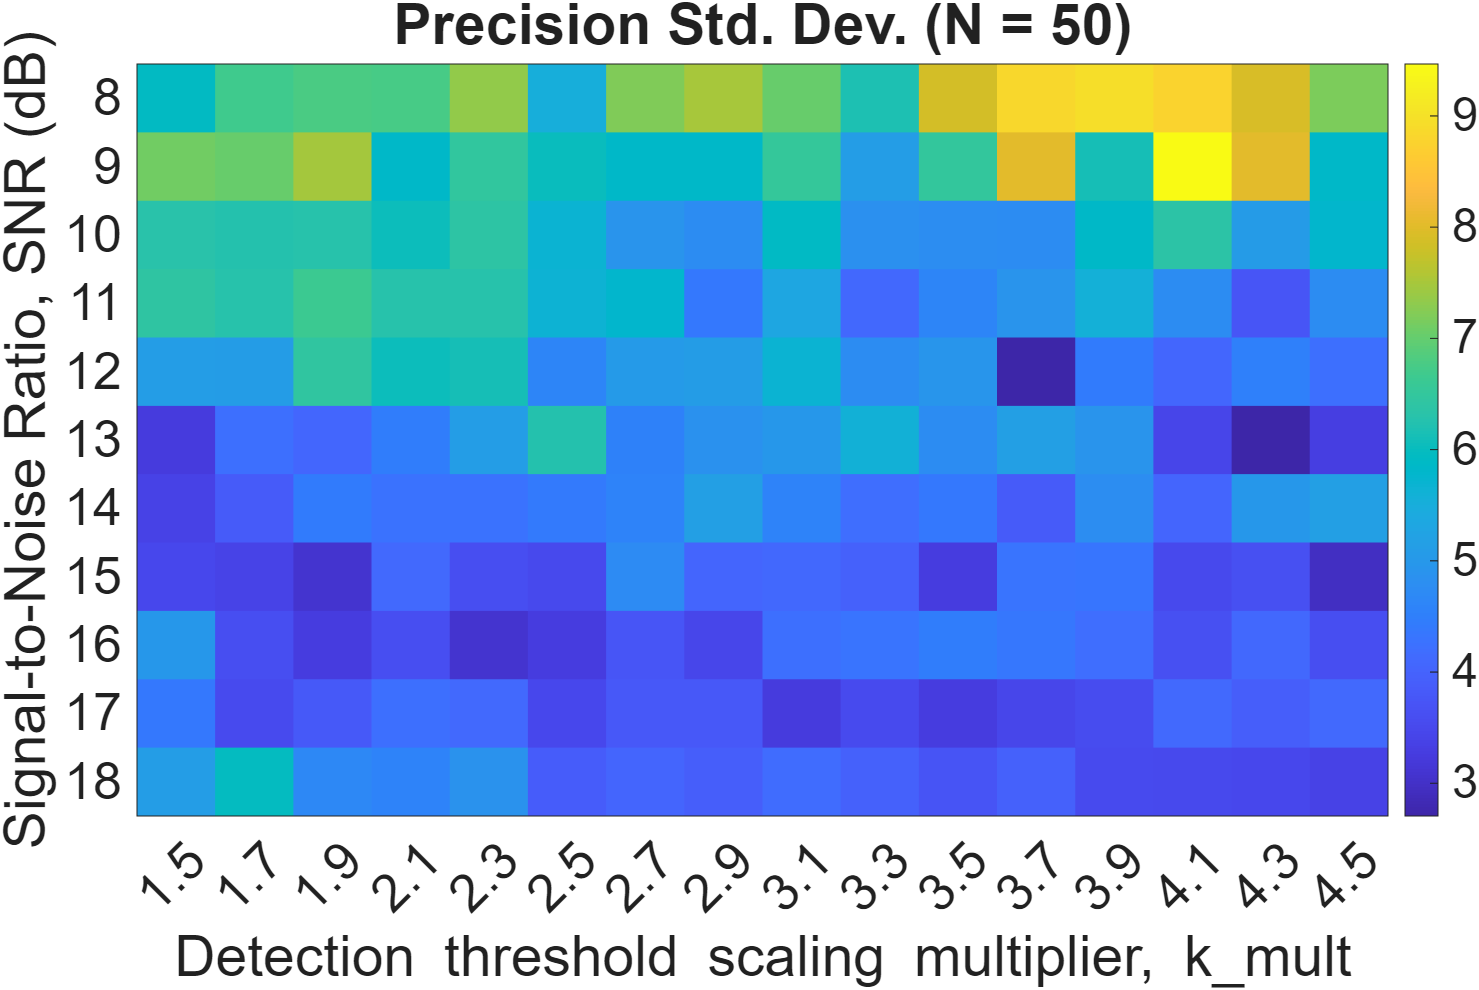
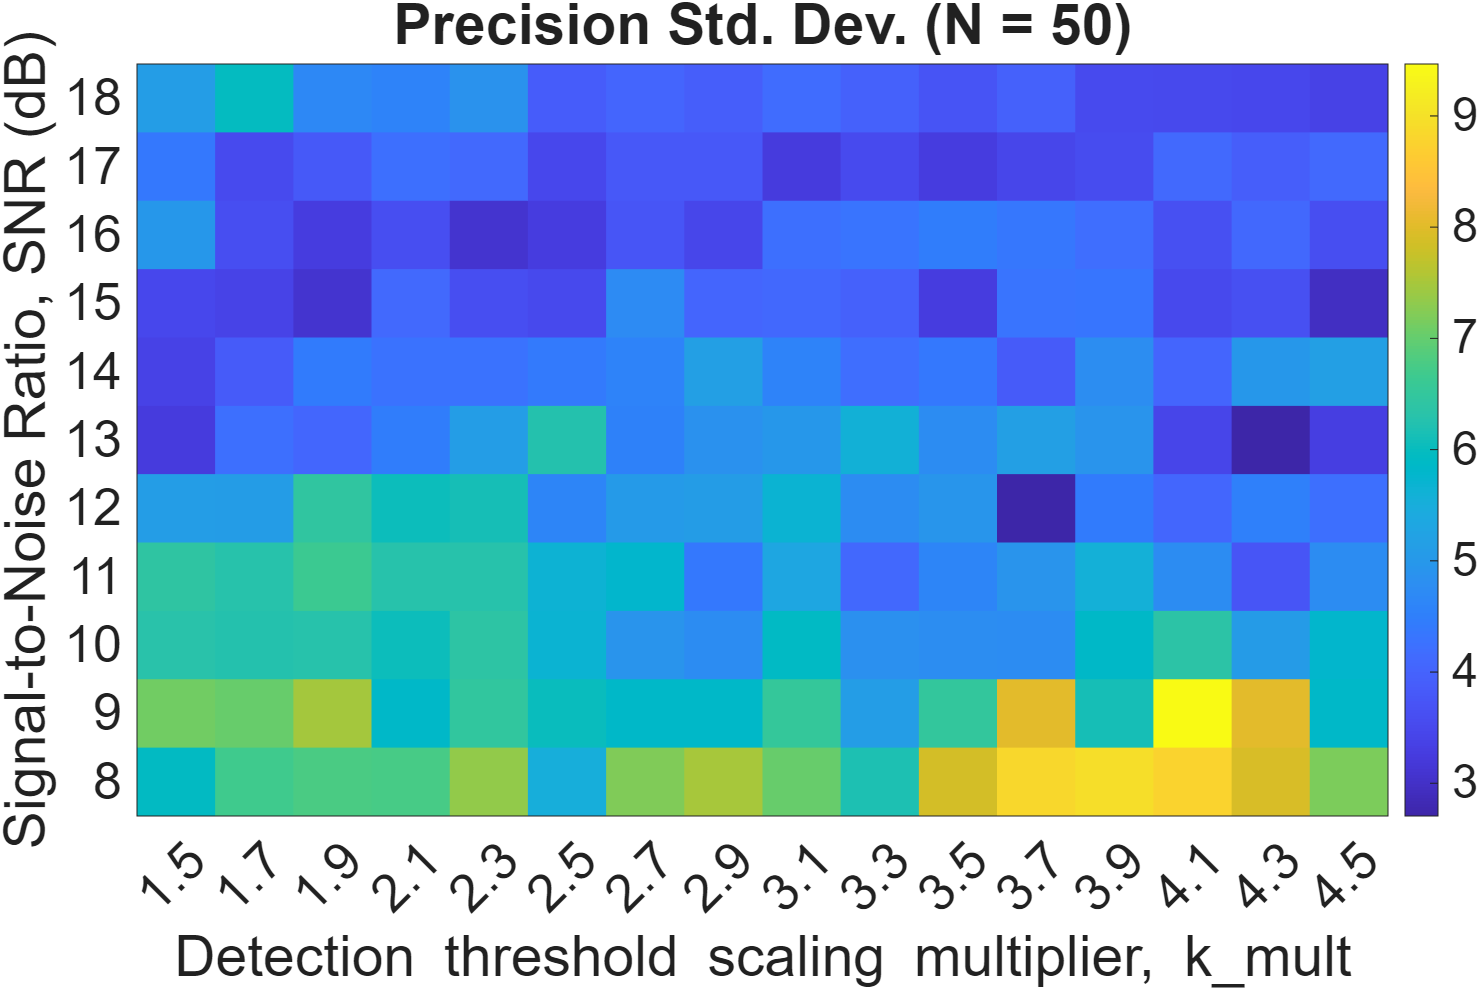
novas imagens

diff --git a/images.m b/images.m
@@ -17,10 +17,10 @@ ax = gca;
 set(ax, 'FontSize', 20, 'LineWidth', 0.8);
 xlabel('Distance (m)', 'FontSize', 20); 
 ylabel('Frequency Shift (MHz)', 'FontSize', 20);
-title('Distributed Frequency Shift Trace Along Sensing Fiber', ...
-    'FontSize', 22, 'FontWeight', 'bold');
+%title('Distributed Frequency Shift Trace Along Sensing Fiber', ...
+    %'FontSize', 22, 'FontWeight', 'bold');
 
-xlim([0 245]);
+xlim([207 237]);
 ylim([-1100 1100]);
 grid on;
 
@@ -80,10 +80,10 @@ for n = 1:length(locs_neg)
 end
 hold off;
 set(gca, 'FontSize', 20, 'LineWidth', 1.2, 'Box', 'on', 'TickDir', 'in');
-xlabel('Distance (m)', 'FontSize', 20, 'FontWeight', 'bold'); 
-ylabel('Frequency Shift (MHz)', 'FontSize', 20, 'FontWeight', 'bold');
-title('Distributed Spectral Shift Event Identification via Threshold Detection', ...
-    'FontSize', 22, 'FontWeight', 'bold');
+xlabel('Distance (m)', 'FontSize', 20); 
+ylabel('Frequency Shift (MHz)', 'FontSize', 20);
+% title('Distributed Spectral Shift Event Identification via Threshold Detection', ...
+%     'FontSize', 22, 'FontWeight', 'bold');
 legend('Location', 'southeast', 'FontSize', 15); 
 grid on; 
 xlim([207 240]); 
@@ -111,8 +111,8 @@ for k = 1:size(views, 1)
     xlabel('Distance (m)', 'FontSize', 25);
     ylabel('Frequency Lag (MHz)', 'FontSize', 25);
     zlabel('Correlation', 'FontSize', 25);
-    title(sprintf('Cross-Correlation Surface Map — %s', views{k,2}), ...
-        'FontSize', 30, 'FontWeight', 'bold');
+    % title(sprintf('Cross-Correlation Surface Map — %s', views{k,2}), ...
+        % 'FontSize', 30, 'FontWeight', 'bold');
     xlim([0 240]);
     ylim([-1100 1100]);
     zlim([-0.5 1]);
@@ -210,6 +210,21 @@ SNR_dB = conf.SNR_dB;
 z = conf.z;
 z_valid = z(1 : (Nz - M + 1));
 
+% 1. Criar o vetor nulo para o Ground Truth contínuo
+true_freq_shift_full = zeros(1, Nz);
+
+% 2. Preencher com os desvios teóricos exatos de cada evento (em Hz)
+for i = 1:conf.num_events
+    start_idx = max(1, round(gt.theor_starts(i) / conf.dz));
+    end_idx   = min(conf.Nz, round(gt.theor_ends(i) / conf.dz));
+    true_freq_shift_full(start_idx:end_idx) = gt.theor_shifts(i) * 1e6; % Converte MHz para Hz
+end
+
+% 3. Truncar para alinhar com a dimensão de z_valid (Nz - M + 1)
+true_freq_shift = true_freq_shift_full(1 : (conf.Nz - conf.M + 1));
+
+
+
 % =========================================================================
 % FIGURE 8: SMOOTHING WINDOW COMPARISON
 % =========================================================================
@@ -219,27 +234,31 @@ smooth_small = movmean(freq_shift, max(1, round(M/2)));
 smooth_large = movmean(freq_shift, 2*M);
 fig8 = figure(8);
 set(fig8, 'Name', 'Smoothing Window Trade-off Analysis');
+z_gt = z_valid - (conf.M * conf.dz) / 2;
+
 plot(z_valid, freq_shift / 1e6, '-', ...
-    'LineWidth', 1.0, 'DisplayName', 'Raw Trace', 'Color', [0.7 0.7 0.7]);
-hold on;
+    'LineWidth', 2.5, 'DisplayName', 'Raw Trace', 'Color', [0.7 0.7 0.7]);
+hold on
+plot(z_gt, true_freq_shift / 1e6, 'k--', ...
+    'LineWidth', 2.5, 'DisplayName', 'Ground Truth');
 plot(z_valid, smooth_small / 1e6, '--', ...
-    'LineWidth', 1.4, 'DisplayName', sprintf('Under-smoothed (W = %d)', max(1, round(M/2))), ...
+    'LineWidth', 2.5, 'DisplayName', sprintf('Under-smoothed (W = %d)', max(1, round(M/2))), ...
     'Color', [0.85 0.32 0.09]); % Orange
-plot(z_valid, smooth_freq_shift / 1e6, '-', ...
-    'LineWidth', 2.0, 'DisplayName', sprintf('Optimal (W = %d)', smooth_window), ...
+plot(z_valid, smooth_freq_shift / 1e6, '-.', ...
+    'LineWidth',2.5, 'DisplayName', sprintf('Optimal (W = %d)', smooth_window), ...
     'Color', [0.00 0.45 0.74]); % Primary Blue
-plot(z_valid, smooth_large / 1e6, '-.', ...
-    'LineWidth', 1.6, 'DisplayName', sprintf('Over-smoothed (W = %d)', 2*M), ...
+plot(z_valid, smooth_large / 1e6, '-', ...
+    'LineWidth', 2.5, 'DisplayName', sprintf('Over-smoothed (W = %d)', 2*M), ...
     'Color', [0.47 0.67 0.19]); % Green
 hold off;
 grid on;
-set(gca, 'FontSize', 15, 'LineWidth', 1.3);
-xlabel('Distance (m)', 'FontSize', 16);
-ylabel('Frequency Shift (MHz)', 'FontSize', 16);
-title('Trade-off of Moving-Average Window Size on Spectral Shift Profile', ...
-    'FontSize', 17, 'FontWeight', 'bold');
-legend('Location', 'northeast', 'FontSize', 13);
-xlim([205, 240]);
+set(gca, 'FontSize', 20, 'LineWidth', 1.3);
+xlabel('Distance (m)', 'FontSize', 20);
+ylabel('Frequency Shift (MHz)', 'FontSize', 20);
+%title('Trade-off of Moving-Average Window Size on Spectral Shift Profile', ...
+    %'FontSize', 17, 'FontWeight', 'bold');
+legend('Location', 'southeast', 'FontSize', 16);
+xlim([210, 226]);
 
 %% HEATMAPS -- LOAD SECOND .MAT FILE
 clear; clc; close all;
@@ -263,6 +282,7 @@ h1.FontSize = 25;
 h1.ColorLimits = [0 100];
 h1.CellLabelColor = 'none';
 h1.GridVisible = 'off';
+h1.YDisplayData = flip(h1.YDisplayData); % Inverte a ordem do Eixo Y
 
 %%
 fig9 = figure(9); set(gcf, 'Name', 'Mean Sensitivity Heatmap', 'WindowState', 'maximized');
@@ -285,6 +305,7 @@ h3.FontSize = 25;
 h3.ColorLimits = [0 100];
 h3.CellLabelColor = 'none';
 h3.GridVisible = 'off';
+h3.YDisplayData = flip(h3.YDisplayData); % Inverte a ordem do Eixo Y
 
 %%
 fig11 = figure(11); set(gcf, 'Name', 'Precision Std Dev Heatmap', 'WindowState', 'maximized');
@@ -296,6 +317,7 @@ h4.Colormap = parula;
 h4.FontSize = 25;
 h4.CellLabelColor = 'none';
 h4.GridVisible = 'off';
+h4.YDisplayData = flip(h4.YDisplayData); % Inverte a ordem do Eixo Y
 
 %%
 fig12 = figure(12); set(gcf, 'Name', 'Sensitivity Std Dev Heatmap', 'WindowState', 'maximized');
@@ -316,3 +338,38 @@ h6.Colormap = parula;
 h6.FontSize = 25;
 h6.CellLabelColor = 'none';
 h6.GridVisible = 'off';
+h6.YDisplayData = flip(h6.YDisplayData); % Inverte a ordem do Eixo Y
+
+%%
+
+%%
+addpath('functions\');
+addpath('sections\')
+
+% 1. Carregar configurações e perfil da fibra
+conf = get_configuration();
+[r, n] = rayleigh_profile(conf);
+
+% Para esta figura, não precisamos de perturbação
+n_pert = n; 
+
+% 2. Executar a simulação de retroespalhamento
+shape_choice = 3; % Impulso retangular ideal
+[z_valid, ~, ~, ~, ~, ~, E_ref_raw_all, ~] = ...
+    backscatter_simulation(conf, shape_choice, r, n, n_pert);
+
+% 3. Extrair a intensidade |E(z)|^2 para uma única frequência ótica (ex: frequência central)
+f_idx = round(conf.Nf / 2); % Índice da frequência central
+E_z = E_ref_raw_all(f_idx, :); % Campo elétrico ao longo de z
+intensity = abs(E_z).^2; % Intensidade |E(z)|^2
+
+% 4. Gerar o gráfico do Traço de Rayleigh
+fig50 = figure(50);
+set(fig50, 'Name', 'Rayleigh Backscatter Trace');
+set(gca, 'FontSize', 20, 'LineWidth', 1.3);
+plot(z_valid, intensity, 'LineWidth', 1.2, 'Color', [0.0 0.45 0.74]);
+grid on;
+xlabel('Position along fiber z (m)', 'FontSize', 20);
+ylabel('Optical Intensity |E(z)|^2 (a.u.)', 'FontSize', 20);
+%title('Rayleigh Backscatter Trace along Fiber', 'FontSize', 22, 'FontWeight', 'bold');
+xlim([0 conf.L]);

diff --git a/pulse_shapping.m b/pulse_shapping.m
@@ -1,4 +1,6 @@
 clc, clear, close
+
+%%
 addpath('sections\')
 addpath('functions\')
 % 1. SYSTEM CONFIGURATION & WAVEGUIDE PROPERTIES
@@ -28,48 +30,48 @@ v_rect    = [ 0, 0, 1,               1,               0,  0];
 plot(t_rect_ns, v_rect, 'r--', 'LineWidth', 2, 'DisplayName', 'Ideal Rectangular Pulse');
 
 
-% 2. RC Filter Model (fc = 100 MHz)
-fc = [50e6, 100e6, 200e6]; 
-for fc_comp = fc
-    RC_comp = 1 / (2 * pi * fc_comp);
-    t_rc = linspace(0, 2 * pulse_width, 2 * M);
-    window_rc_full = zeros(1, 2 * M);
-    for k = 1:2*M
-        tk = t_rc(k);
-        if tk <= pulse_width
-            window_rc_full(k) = 1 - exp(-tk / RC_comp);
-        else
-
-            window_rc_full(k) = (1 - exp(-pulse_width / RC_comp)) * exp(-(tk - pulse_width) / RC_comp);
-        end
-    end
-    window_rc = window_rc_full / max(window_rc_full);
-    plot(t_rc * 1e9, window_rc, 'LineWidth', 1.8, ...
-        'DisplayName', sprintf('Filtro RC (f_c = %d MHz)', fc_comp/1e6));
-end
+% % 2. RC Filter Model (fc = 100 MHz)
+% fc = [50e6, 100e6, 200e6]; 
+% for fc_comp = fc
+%     RC_comp = 1 / (2 * pi * fc_comp);
+%     t_rc = linspace(0, 2 * pulse_width, 2 * M);
+%     window_rc_full = zeros(1, 2 * M);
+%     for k = 1:2*M
+%         tk = t_rc(k);
+%         if tk <= pulse_width
+%             window_rc_full(k) = 1 - exp(-tk / RC_comp);
+%         else
+% 
+%             window_rc_full(k) = (1 - exp(-pulse_width / RC_comp)) * exp(-(tk - pulse_width) / RC_comp);
+%         end
+%     end
+%     window_rc = window_rc_full / max(window_rc_full);
+%     plot(t_rc * 1e9, window_rc, 'LineWidth', 2, ...
+%         'DisplayName', sprintf('Filtro RC (f_c = %d MHz)', fc_comp/1e6));
+% end
 
 
 % 3. Super-Gaussian (Order N)
-% pulse_width_ns = pulse_width * 1e9; % 10 ns
-% t_sg_ns = linspace(-pulse_width_ns, 2*pulse_width_ns, 2*M); % -10 a 20 ns
-% t_center_ns = pulse_width_ns / 2; % 5 ns
-% 
-% order_N = [1, 3, 5];
-% 
-% for N = order_N
-%     window_sg = sgauss(t_sg_ns - t_center_ns, pulse_width_ns, 1, 0, N);
-%     window_sg = window_sg / max(window_sg);
-%     plot(t_sg_ns, window_sg, 'LineWidth', 1.5, 'DisplayName', ['Super-Gaussian (p=' num2str(N) ')']);
-% end
+pulse_width_ns = pulse_width * 1e9; % 10 ns
+t_sg_ns = linspace(-pulse_width_ns, 2*pulse_width_ns, 2*M); % -10 a 20 ns
+t_center_ns = pulse_width_ns / 2; % 5 ns
+
+order_N = [1, 3, 5];
+
+for N = order_N
+    window_sg = sgauss(t_sg_ns - t_center_ns, pulse_width_ns, 1, 0, N);
+    window_sg = window_sg / max(window_sg);
+    plot(t_sg_ns, window_sg, 'LineWidth', 2, 'DisplayName', ['Super-Gaussian (p=' num2str(N) ')']);
+end
 
 grid on;
-% xlim([-11, 21]); 
-xlim([-7, 22])
+xlim([-11, 21]); 
+% xlim([-7, 22])
 ylim([0, 1.2]);
 set(gca, 'FontSize', 20, 'LineWidth', 1.5);
     
 xlabel('Relative Time (ns)', 'FontSize', 20); 
 ylabel('Normalized Amplitude', 'FontSize', 20);
-title('Comparison of Optical Pulse Shapes', 'FontSize', 25, 'FontWeight', 'bold');
+%title('Comparison of Optical Pulse Shapes', 'FontSize', 25, 'FontWeight', 'bold');
 legend('Location', 'northeast', 'FontSize', 15);
 hold off;
